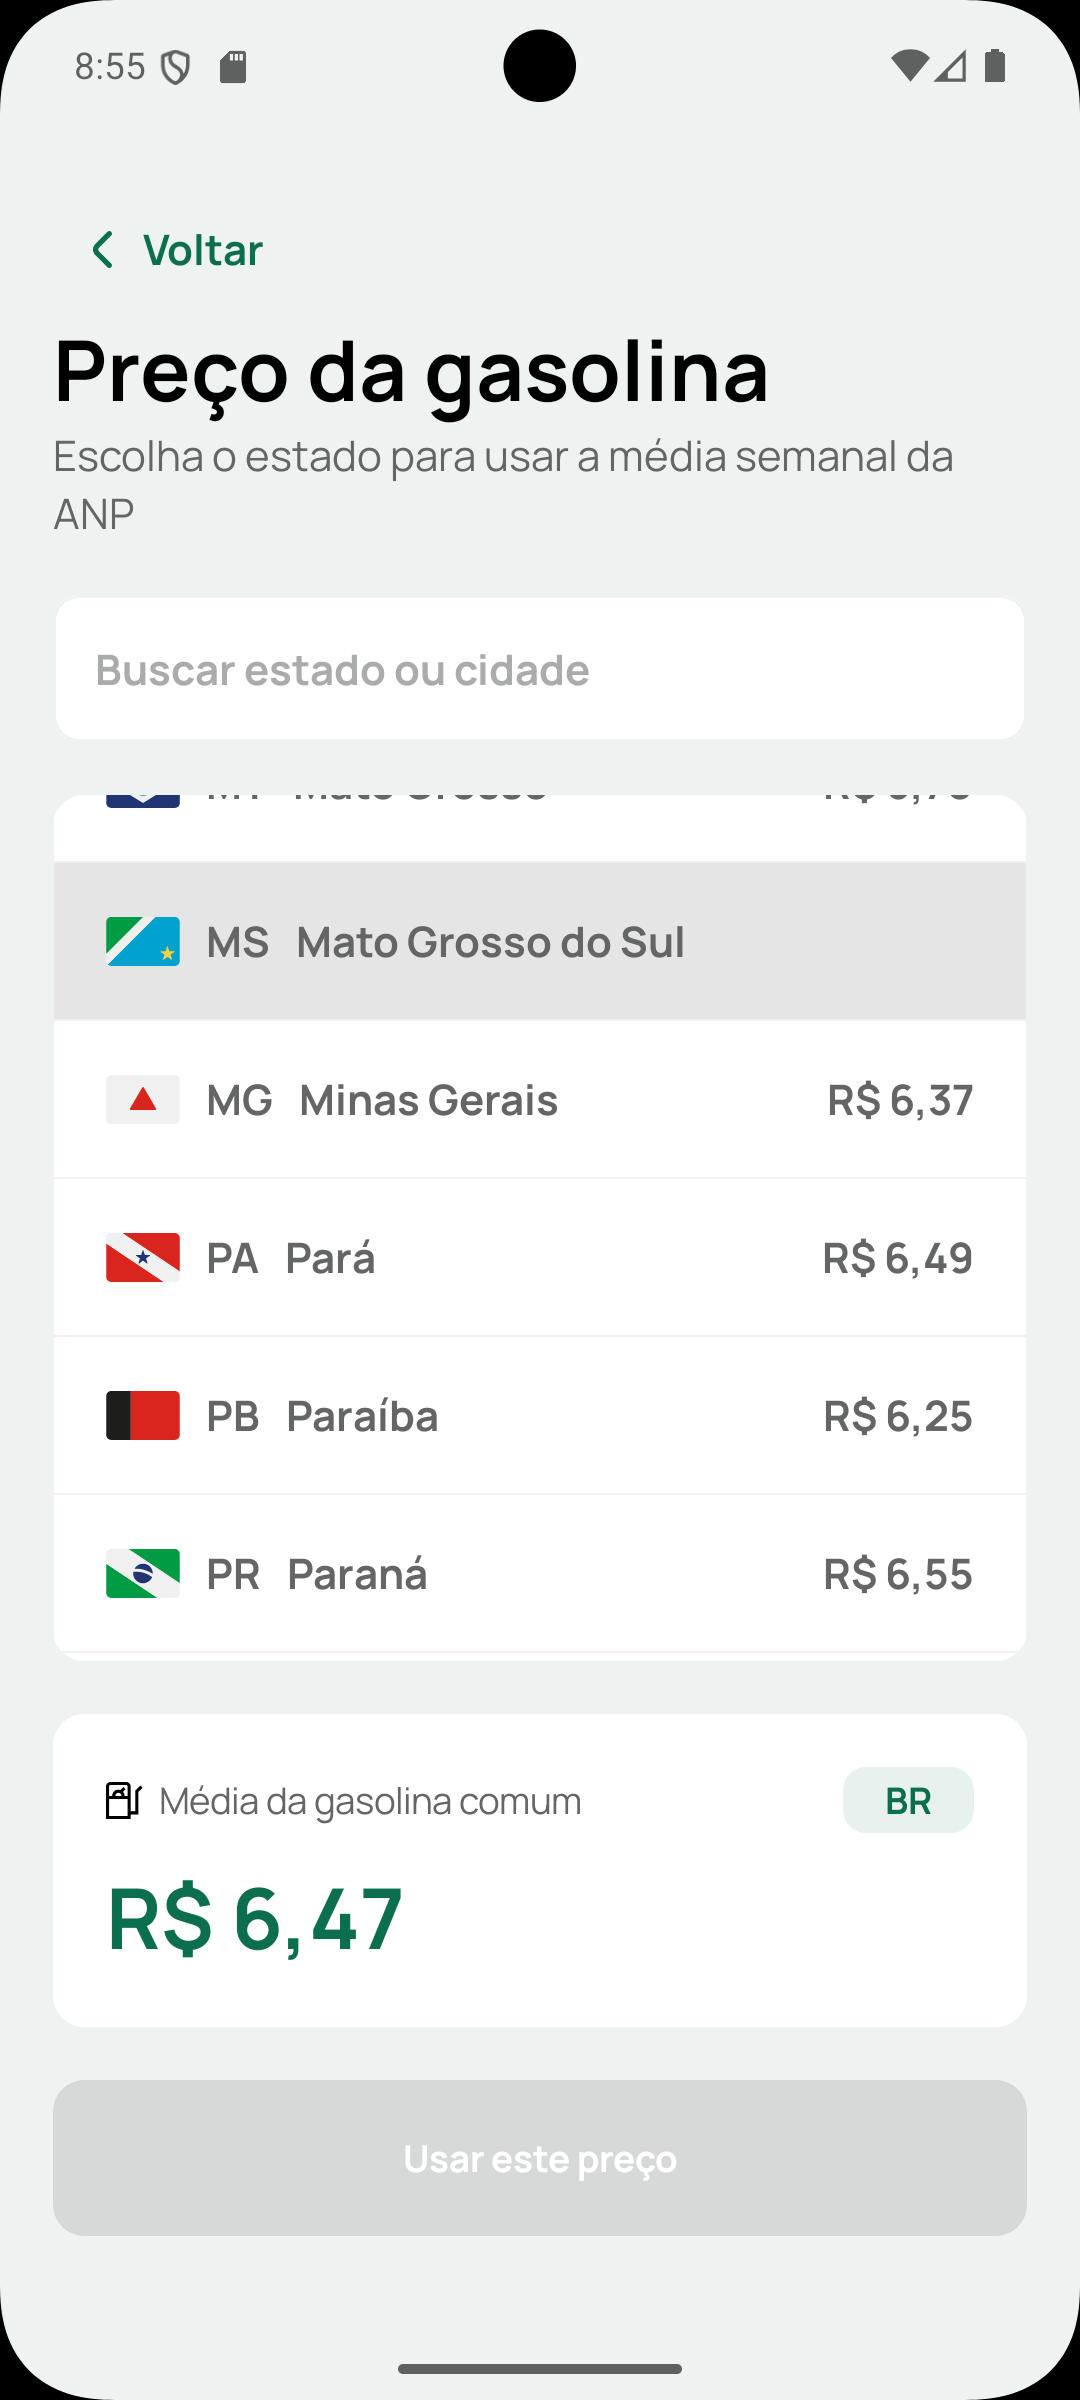
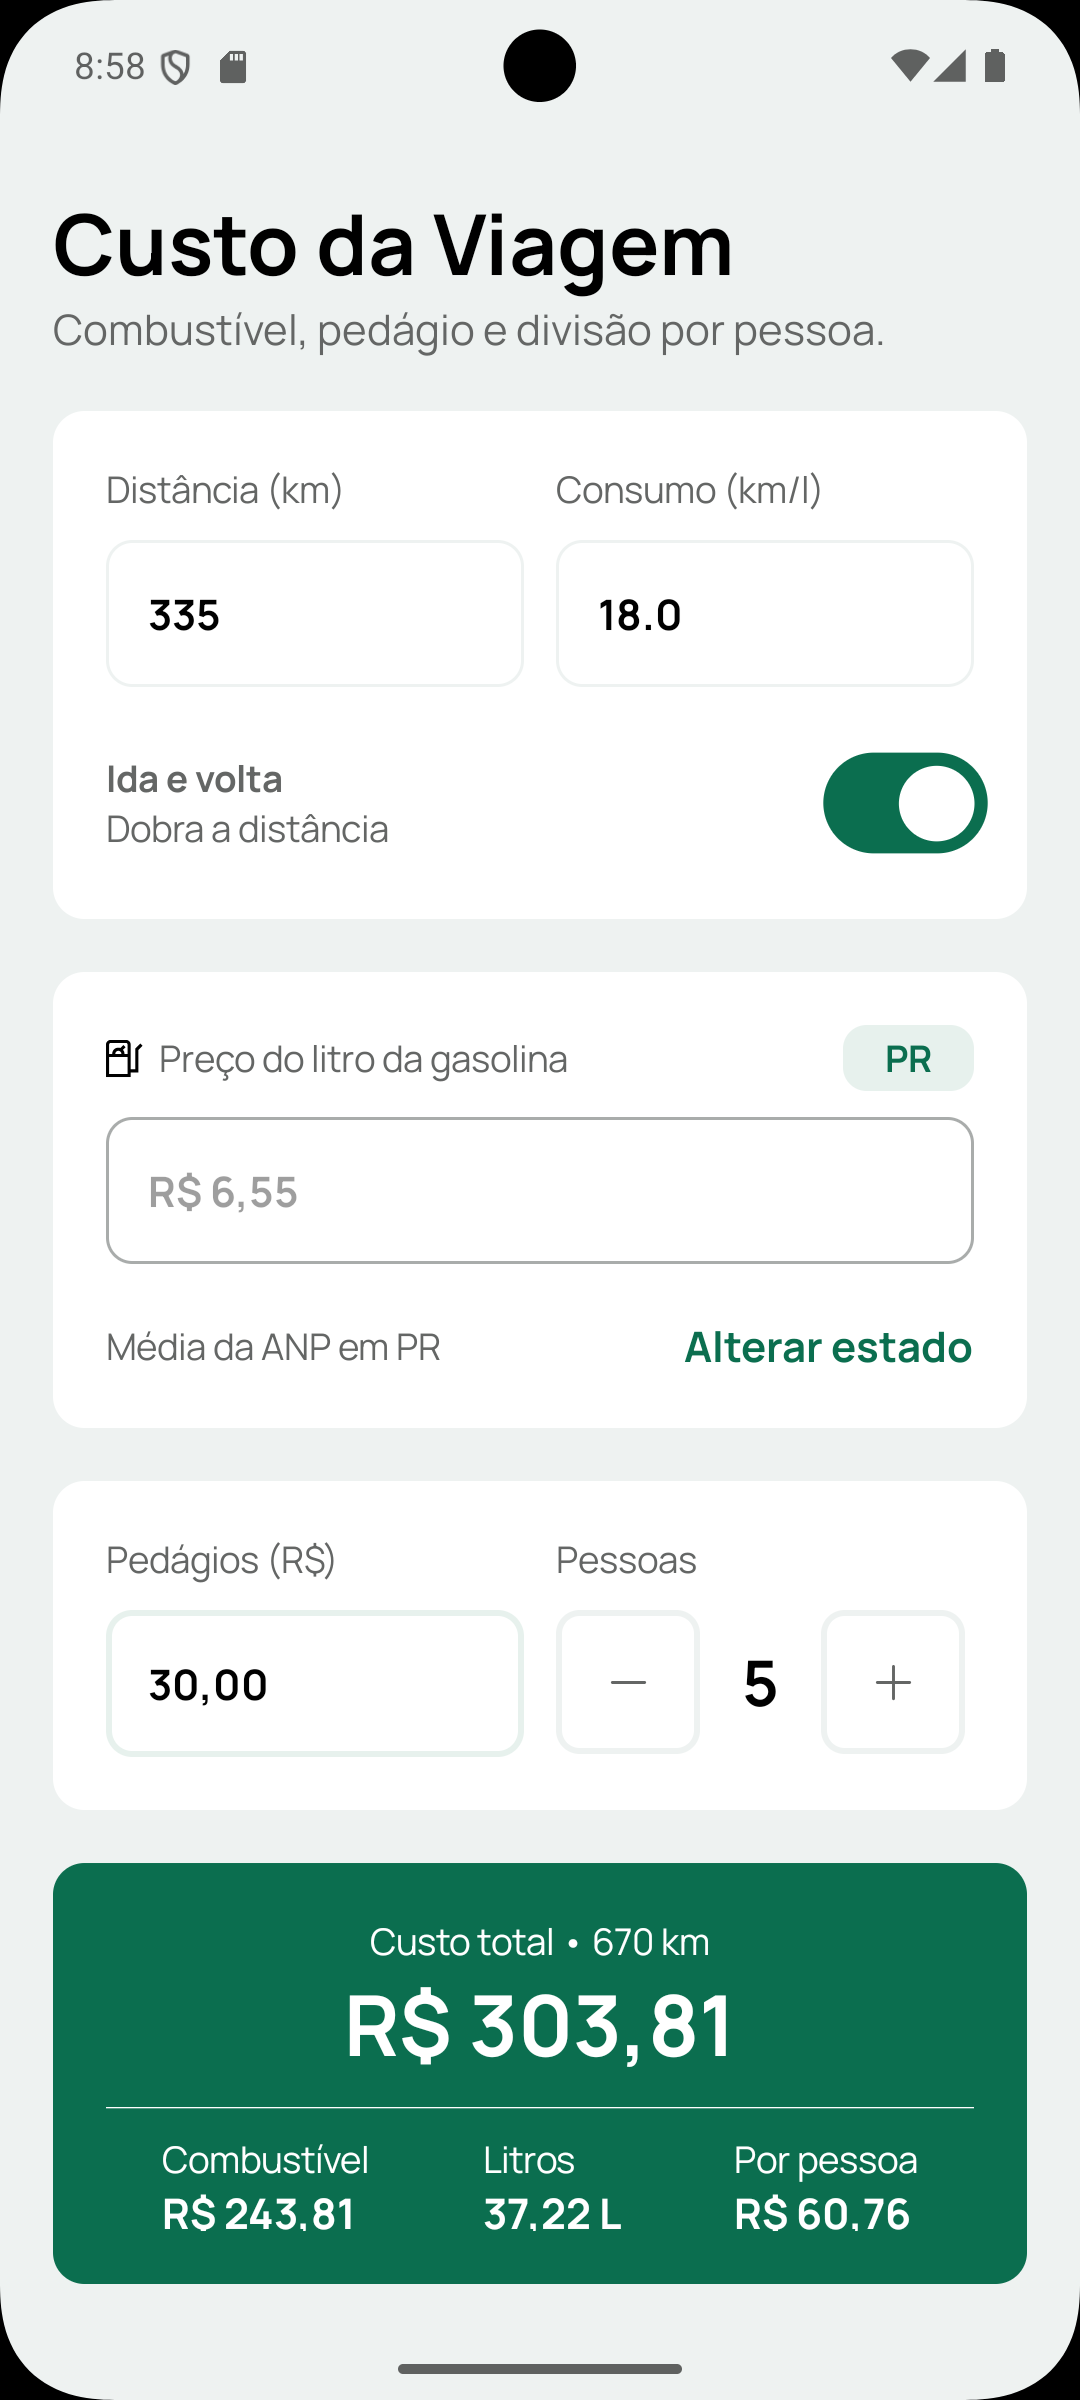
chore: rename README screenshot images

diff --git a/README.md b/README.md
@@ -9,11 +9,11 @@
 <hr>
 <h1>Home</h1>
 <hr>
-<img src="./assets/home.png" width="300px"/>
+<img src="assets/home.png" width="300px"/>
 <hr>
   <h1>Change State</h1>
 <hr>
-<img src="./assets/changeState.png" width="300px"/>
+<img src="assets/changestate.png" width="300px"/>
 <hr>
 <hr>
   <h1>Filter State</h1>
